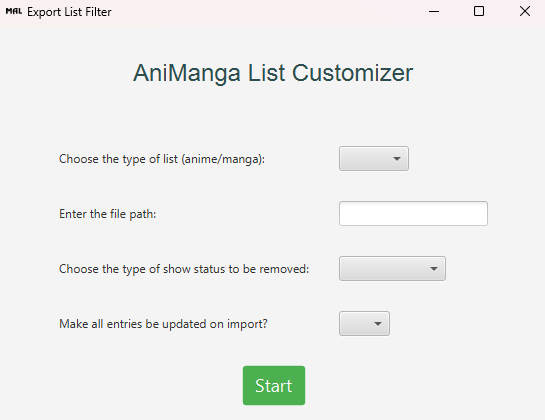
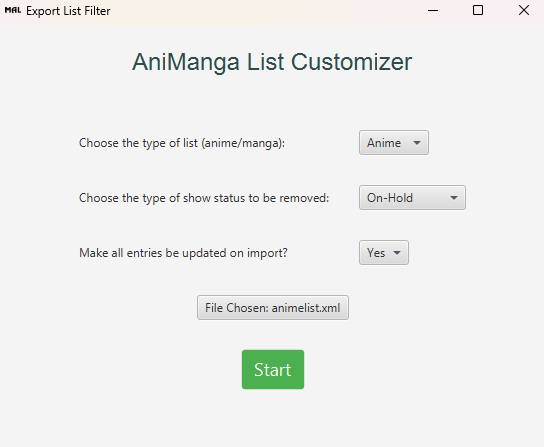
improvements

diff --git a/src/main/java/gui/ExportManagerGUI.java b/src/main/java/gui/ExportManagerGUI.java
@@ -7,10 +7,10 @@ import javafx.scene.Scene;
 import javafx.scene.control.*;
 import javafx.scene.image.Image;
 import javafx.scene.layout.GridPane;
-import javafx.scene.layout.HBox;
 import javafx.scene.layout.VBox;
 import javafx.scene.paint.Color;
 import javafx.scene.text.Font;
+import javafx.stage.FileChooser;
 import javafx.stage.Stage;
 import java.io.File;
 import java.util.Objects;
@@ -19,95 +19,117 @@ import processor.XMLProcessor;
 
 public class ExportManagerGUI extends Application {
     private final XMLProcessor xmlProcessor = new XMLProcessor();
+    private final Label title = new Label("AniManga List Customizer");
+    private final GridPane grid = new GridPane();
+    private ChoiceBox<String> listTypeChoiceBox;
+    private ChoiceBox<String> statusTypeChoiceBox;
+    private ChoiceBox<String> importableChoiceBox;
+    String filePath;
 
     @Override
     public void start(Stage primaryStage) {
         primaryStage.setTitle("Export List Filter");
         primaryStage.getIcons().add(new Image(Objects.requireNonNull(getClass().getResourceAsStream("/MAL.png"))));
 
-        GridPane grid = new GridPane();
+        title.setFont(new Font("Arial", 24));
+        title.setTextFill(Color.DARKSLATEGREY);
+
+        createGridPane();
+
+        VBox buttons = new VBox();
+        buttons.setSpacing(30);
+        buttons.setAlignment(Pos.CENTER);
+
+        buttons.getChildren().add(createFileChooser(primaryStage));
+        buttons.getChildren().add(createStartButton());
+
+        grid.add(buttons, 0, 3, 2, 1);
+
+        VBox vbox = new VBox(15, title, grid);
+        vbox.setAlignment(Pos.CENTER);
+
+        primaryStage.setScene(new Scene(vbox, 550, 425));
+        primaryStage.show();
+    }
+
+    private void createGridPane() {
         grid.setHgap(30);
         grid.setVgap(30);
         grid.setPadding(new Insets(40, 40, 40, 40));
         grid.setAlignment(Pos.CENTER);
 
-        Label title = new Label("AniManga List Customizer");
-        title.setFont(new Font("Arial", 24));
-        title.setTextFill(Color.DARKSLATEGREY);
-
-        Label listTypeLabel = new Label("Choose the type of list (anime/manga):");
-        ChoiceBox<String> listTypeChoiceBox = new ChoiceBox<>();
-        listTypeChoiceBox.getItems().addAll("Anime", "Manga");
-
-        Label filePathLabel = new Label("Enter the file path:");
-        TextField filePathTextField = new TextField();
-
-        Label statusTypeLabel = new Label("Choose the type of show status to be removed:");
-        ChoiceBox<String> statusTypeChoiceBox = new ChoiceBox<>();
-        statusTypeChoiceBox.getItems().addAll("Watching", "Completed", "On-Hold", "Dropped", "Plan to Watch", "none");
-
-        Label importableLabel = new Label("Make all entries be updated on import?");
-        ChoiceBox<String> importableChoiceBox = new ChoiceBox<>();
-        importableChoiceBox.getItems().addAll("Yes", "No");
-
-        grid.add(listTypeLabel, 0, 0);
+        grid.add(new Label("Choose the type of list (anime/manga):"), 0, 0);
+        listTypeChoiceBox = createChoiceBox("Anime", "Manga");
         grid.add(listTypeChoiceBox, 1, 0);
-        grid.add(filePathLabel, 0, 1);
-        grid.add(filePathTextField, 1, 1);
-        grid.add(statusTypeLabel, 0, 2);
-        grid.add(statusTypeChoiceBox, 1, 2);
-        grid.add(importableLabel, 0, 3);
-        grid.add(importableChoiceBox, 1, 3);
 
+        grid.add(new Label("Choose the type of show status to be removed:"), 0, 1);
+        statusTypeChoiceBox = createChoiceBox("Watching", "Completed", "On-Hold",
+                                                "Dropped", "Plan to Watch", "none");
+        grid.add(statusTypeChoiceBox, 1, 1);
+
+        grid.add(new Label("Make all entries be updated on import?"), 0, 2);
+        importableChoiceBox = createChoiceBox("Yes", "No");
+        grid.add(importableChoiceBox, 1, 2);
+    }
+
+    private ChoiceBox<String> createChoiceBox(String... items) {
+        ChoiceBox<String> choiceBox = new ChoiceBox<>();
+        choiceBox.getItems().addAll(items);
+        return choiceBox;
+    }
+
+    private Button createFileChooser(Stage primaryStage) {
+        Button fileChooserButton = new Button("Choose File");
+        fileChooserButton.setOnAction(e -> {
+            FileChooser fileChooser = new FileChooser();
+            fileChooser.setInitialDirectory(new File(System.getProperty("user.home")));
+            fileChooser.getExtensionFilters().add(new FileChooser.ExtensionFilter(".xml-files", "*.xml"));
+            File selectedFile = fileChooser.showOpenDialog(primaryStage);
+            if (selectedFile != null) {
+                filePath = selectedFile.getAbsolutePath();
+                fileChooserButton.setText("File Chosen: " + selectedFile.getName());
+            }
+        });
+        return fileChooserButton;
+    }
+
+    private Button createStartButton() {
         Button startButton = new Button("Start");
         startButton.setStyle("-fx-background-color: #4CAF50; -fx-text-fill: white; -fx-font-size: 18px;");
         startButton.setOnAction(e -> {
             String listType = listTypeChoiceBox.getValue();
-            String filePath = filePathTextField.getText();
             String statusType = statusTypeChoiceBox.getValue();
             String importable = importableChoiceBox.getValue();
 
-            if (listType == null || filePath.isEmpty() || statusType == null || importable == null) {
-                alertWithTitleAndIcon(new Alert(
+            if (listType == null || statusType == null || importable == null || filePath==null ) {
+                createAlert(new Alert(
                         Alert.AlertType.ERROR, "All fields must be filled out!"), "Error!"
                 ).showAndWait();
                 return;
             }
-            if (!filePath.toLowerCase().endsWith(".xml") || !new File(filePath).exists()) {
-                alertWithTitleAndIcon(new Alert(
-                        Alert.AlertType.WARNING, "File path must point to a valid .xml-file!"), "Warning!"
-                ).showAndWait();
-                return;
-            }
 
-            Alert alert = alertWithTitleAndIcon(new Alert(Alert.AlertType.CONFIRMATION,
+            listType = listType.toLowerCase();
+
+            Alert alert = createAlert(new Alert(Alert.AlertType.CONFIRMATION,
                     "This process will overwrite your current .xml-file!"), "Confirmation");
             alert.setHeaderText("Are you sure you want to proceed?");
             Optional<ButtonType> result = alert.showAndWait();
 
             if (result.isPresent() && result.get() == ButtonType.OK){
-                if (!"none".equalsIgnoreCase(statusType)) xmlProcessor.removeStatus(listType, filePath, statusType);
-                if ("Yes".equalsIgnoreCase(importable)) xmlProcessor.updateOnImport(listType, filePath);
-                alert = alertWithTitleAndIcon(new Alert(Alert.AlertType.INFORMATION,
-                        "Congrats! You're ready to re-import it now: https://myanimelist.net/import.php"), "Info");
+                listType = listType.toLowerCase();
+                if (!"none".equals(statusType)) xmlProcessor.removeStatus(listType, filePath, statusType);
+                if ("Yes".equals(importable)) xmlProcessor.updateOnImport(listType, filePath, "1");
+                else xmlProcessor.updateOnImport(listType, filePath, "0");
+                alert = createAlert(new Alert(Alert.AlertType.INFORMATION,
+                        "Congrats! You're ready to re-import it now to https://myanimelist.net/import.php"), "Info");
                 alert.setHeaderText("Process successfully finished!");
                 alert.showAndWait();
             }
         });
-        grid.add(startButton, 0, 4);
-
-        HBox hbox = new HBox();
-        hbox.setAlignment(Pos.CENTER);
-        hbox.getChildren().add(startButton);
-        grid.add(hbox, 0, 4, 2, 1);
-        VBox vbox = new VBox(20, title, grid);
-        vbox.setAlignment(Pos.CENTER);
-
-        primaryStage.setScene(new Scene(vbox, 550, 450));
-        primaryStage.show();
+        return startButton;
     }
 
-    private Alert alertWithTitleAndIcon(Alert alert, String s) {
+    private Alert createAlert(Alert alert, String s) {
         alert.setTitle("Export List Filter: " + s);
         Stage alertStage = (Stage) alert.getDialogPane().getScene().getWindow();
         alertStage.getIcons().add(new Image(Objects.requireNonNull(getClass().getResourceAsStream("/MAL.png"))));

diff --git a/src/main/java/processor/XMLProcessor.java b/src/main/java/processor/XMLProcessor.java
@@ -1,9 +1,7 @@
 package processor;
 
-import javax.xml.parsers.DocumentBuilder;
 import javax.xml.parsers.DocumentBuilderFactory;
 import javax.xml.parsers.ParserConfigurationException;
-import javax.xml.transform.Transformer;
 import javax.xml.transform.TransformerException;
 import javax.xml.transform.TransformerFactory;
 import javax.xml.transform.dom.DOMSource;
@@ -16,34 +14,21 @@ import org.w3c.dom.NodeList;
 import org.xml.sax.SAXException;
 
 public class XMLProcessor {
-    public void removeStatus(String listType, String filePath, String statusType) {
-        Document doc = parseDocument(filePath);
-        if (doc != null) {
-            NodeList nodeList = doc.getElementsByTagName(listType);
-            processRemoveStatus(nodeList, statusType);
-            writeDocument(doc, filePath);
-        }
-    }
-
-    public void updateOnImport(String listType, String filePath) {
-        Document doc = parseDocument(filePath);
-        if (doc != null) {
-            NodeList nodeList = doc.getElementsByTagName(listType);
-            processUpdateOnImport(nodeList);
-            writeDocument(doc, filePath);
-        }
-    }
-
     private Document parseDocument(String filePath) {
         try {
-            File file = new File(filePath);
-            DocumentBuilderFactory dbf = DocumentBuilderFactory.newInstance();
-            DocumentBuilder db = dbf.newDocumentBuilder();
-            return db.parse(file);
+            return DocumentBuilderFactory.newInstance().newDocumentBuilder().parse(new File(filePath));
         } catch (ParserConfigurationException | SAXException | IOException e) {
             e.printStackTrace();
         }
         return null;
+    }
+
+    public void removeStatus(String listType, String filePath, String statusType) {
+        Document doc = parseDocument(filePath);
+        if (doc != null) {
+            processRemoveStatus(doc.getElementsByTagName(listType), statusType);
+            writeDocument(doc, filePath);
+        }
     }
 
     private void processRemoveStatus(NodeList nodeList, String statusType) {
@@ -60,24 +45,28 @@ public class XMLProcessor {
         }
     }
 
-    private void processUpdateOnImport(NodeList nodeList) {
+    public void updateOnImport(String listType, String filePath, String bool) {
+        Document doc = parseDocument(filePath);
+        if (doc != null) {
+            processUpdateOnImport(doc.getElementsByTagName(listType), bool);
+            writeDocument(doc, filePath);
+        }
+    }
+
+    private void processUpdateOnImport(NodeList nodeList, String bool) {
         for (int i = 0; i < nodeList.getLength(); i++) {
             Element anime = (Element) nodeList.item(i);
             NodeList updateOnImportList = anime.getElementsByTagName("update_on_import");
             if (updateOnImportList.getLength() > 0) {
                 Element updateOnImport = (Element) updateOnImportList.item(0);
-                updateOnImport.setTextContent("1");
+                updateOnImport.setTextContent(bool);
             }
         }
     }
 
     private void writeDocument(Document doc, String filePath) {
         try {
-            TransformerFactory transformerFactory = TransformerFactory.newInstance();
-            Transformer transformer = transformerFactory.newTransformer();
-            DOMSource source = new DOMSource(doc);
-            StreamResult result = new StreamResult(new File(filePath));
-            transformer.transform(source, result);
+            TransformerFactory.newInstance().newTransformer().transform(new DOMSource(doc), new StreamResult(new File(filePath)));
         } catch (TransformerException e) {
             e.printStackTrace();
         }
